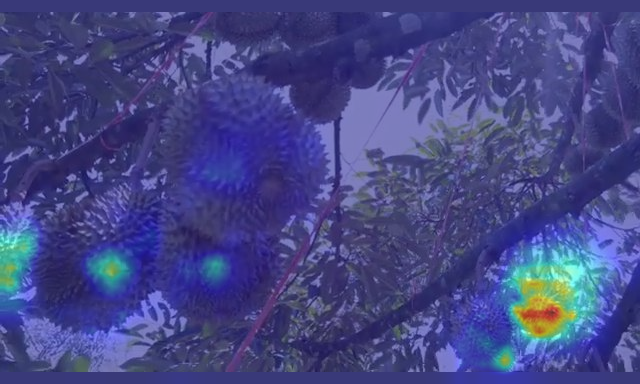
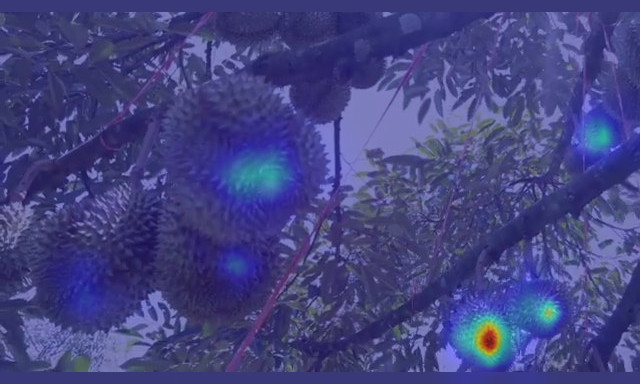
iou损失函数

diff --git a/ultralytics/utils/metrics.py b/ultralytics/utils/metrics.py
@@ -73,7 +73,8 @@ def box_iou(box1, box2, eps=1e-7):
     return inter / ((a2 - a1).prod(2) + (b2 - b1).prod(2) - inter + eps)
 
 
-def bbox_iou(box1, box2, xywh=True, GIoU=False, DIoU=False, CIoU=False, eps=1e-7):
+def bbox_iou(box1, box2, xywh=True, GIoU=False, DIoU=False, CIoU=False, SIoU=False, EIoU=False, WIoU=False, Focal=False,
+             alpha=1, gamma=0.5, scale=False, eps=1e-7):
     """
     Calculate Intersection over Union (IoU) of box1(1, 4) to box2(n, 4).
 
@@ -112,24 +113,105 @@ def bbox_iou(box1, box2, xywh=True, GIoU=False, DIoU=False, CIoU=False, eps=1e-7
     union = w1 * h1 + w2 * h2 - inter + eps
 
     # IoU
-    iou = inter / union
-    if CIoU or DIoU or GIoU:
+    # iou = inter / union
+    iou = torch.pow(inter / (union + eps), alpha)  # alpha iou
+    if CIoU or DIoU or GIoU or EIoU or SIoU or WIoU:
         cw = b1_x2.maximum(b2_x2) - b1_x1.minimum(b2_x1)  # convex (smallest enclosing box) width
         ch = b1_y2.maximum(b2_y2) - b1_y1.minimum(b2_y1)  # convex height
-        if CIoU or DIoU:  # Distance or Complete IoU https://arxiv.org/abs/1911.08287v1
-            c2 = cw.pow(2) + ch.pow(2) + eps  # convex diagonal squared
-            rho2 = (
-                (b2_x1 + b2_x2 - b1_x1 - b1_x2).pow(2) + (b2_y1 + b2_y2 - b1_y1 - b1_y2).pow(2)
-            ) / 4  # center dist**2
+        if CIoU or DIoU or EIoU or SIoU or WIoU:  # Distance or Complete IoU https://arxiv.org/abs/1911.08287v1
+            c2 = (cw ** 2 + ch ** 2) ** alpha + eps  # convex diagonal squared
+            rho2 = (((b2_x1 + b2_x2 - b1_x1 - b1_x2) ** 2 + (b2_y1 + b2_y2 - b1_y1 - b1_y2) ** 2) / 4) ** alpha  # center dist ** 2
             if CIoU:  # https://github.com/Zzh-tju/DIoU-SSD-pytorch/blob/master/utils/box/box_utils.py#L47
-                v = (4 / math.pi**2) * ((w2 / h2).atan() - (w1 / h1).atan()).pow(2)
+                v = (4 / math.pi ** 2) * (torch.atan(w2 / h2) - torch.atan(w1 / h1)).pow(2)
                 with torch.no_grad():
-                    alpha = v / (v - iou + (1 + eps))
-                return iou - (rho2 / c2 + v * alpha)  # CIoU
-            return iou - rho2 / c2  # DIoU
+                    alpha_ciou = v / (v - iou + (1 + eps))
+                if Focal:
+                    return iou - (rho2 / c2 + torch.pow(v * alpha_ciou + eps, alpha)), torch.pow(inter / (union + eps), gamma)  # Focal_CIoU
+                else:
+                    return iou - (rho2 / c2 + torch.pow(v * alpha_ciou + eps, alpha))  # CIoU
+            elif EIoU:
+                rho_w2 = ((b2_x2 - b2_x1) - (b1_x2 - b1_x1)) ** 2
+                rho_h2 = ((b2_y2 - b2_y1) - (b1_y2 - b1_y1)) ** 2
+                cw2 = torch.pow(cw ** 2 + eps, alpha)
+                ch2 = torch.pow(ch ** 2 + eps, alpha)
+                if Focal:
+                    return iou - (rho2 / c2 + rho_w2 / cw2 + rho_h2 / ch2), torch.pow(inter / (union + eps), gamma)  # Focal_EIou
+                else:
+                    return iou - (rho2 / c2 + rho_w2 / cw2 + rho_h2 / ch2)  # EIou
+            elif SIoU: # SIoU Loss https://arxiv.org/pdf/2205.12740.pdf
+                s_cw = (b2_x1 + b2_x2 - b1_x1 - b1_x2) * 0.5 + eps
+                s_ch = (b2_y1 + b2_y2 - b1_y1 - b1_y2) * 0.5 + eps
+                sigma = torch.pow(s_cw ** 2 + s_ch ** 2, 0.5)
+                sin_alpha_1 = torch.abs(s_cw) / sigma
+                sin_alpha_2 = torch.abs(s_ch) / sigma
+                threshold = pow(2, 0.5) / 2
+                sin_alpha = torch.where(sin_alpha_1 > threshold, sin_alpha_2, sin_alpha_1)
+                angle_cost = torch.cos(torch.arcsin(sin_alpha) * 2 - math.pi / 2)
+                rho_x = (s_cw / cw) ** 2
+                rho_y = (s_ch / ch) ** 2
+                gamma = angle_cost - 2
+                distance_cost = 2 - torch.exp(gamma * rho_x) - torch.exp(gamma * rho_y)
+                omiga_w = torch.abs(w1 - w2) / torch.max(w1, w2)
+                omiga_h = torch.abs(h1 - h2) / torch.max(h1, h2)
+                shape_cost = torch.pow(1 - torch.exp(-1 * omiga_w), 4) + torch.pow(1 - torch.exp(-1 * omiga_h), 4)
+                if Focal:
+                    return iou - torch.pow(0.5 * (distance_cost + shape_cost) + eps, alpha), torch.pow(inter / (union + eps), gamma)  # Focal_SIou
+                else:
+                    return iou - torch.pow(0.5 * (distance_cost + shape_cost) + eps, alpha)  # SIou
+            elif WIoU:
+                if Focal:
+                    raise RuntimeError("WIoU do not support Focal.")
+                elif scale:
+                    return getattr(WIoU_Scale, '_scaled_loss')(self), (1 - iou) * torch.exp((rho2 / c2)), iou  # WIoU https://arxiv.org/abs/2301.10051
+                else:
+                    return iou, torch.exp((rho2 / c2))  # WIoU v1
+            if Focal:
+                return iou - rho2 / c2, torch.pow(inter / (union + eps), gamma)  # Focal_DIoU
+            else:
+                return iou - rho2 / c2  # DIoU
         c_area = cw * ch + eps  # convex area
-        return iou - (c_area - union) / c_area  # GIoU https://arxiv.org/pdf/1902.09630.pdf
-    return iou  # IoU
+        if Focal:
+            return iou - torch.pow((c_area - union) / c_area + eps, alpha), torch.pow(inter / (union + eps), gamma)  # Focal_GIoU https://arxiv.org/pdf/1902.09630.pdf
+        else:
+            return iou - torch.pow((c_area - union) / c_area + eps, alpha)  # GIoU https://arxiv.org/pdf/1902.09630.pdf
+    if Focal:
+        return iou, torch.pow(inter / (union + eps), gamma)  # Focal_IoU
+    else:
+        return iou  # IoU
+
+
+class WIoU_Scale:
+    ''' monotonous: {
+            None: origin v1
+            True: monotonic FM v2
+            False: non-monotonic FM v3
+        }
+        momentum: The momentum of running mean'''
+
+    iou_mean = 1.
+    monotonous = False
+    _momentum = 1 - 0.5 ** (1 / 7000)
+    _is_train = True
+
+    def __init__(self, iou):
+        self.iou = iou
+        self._update(self)
+
+    @classmethod
+    def _update(cls, self):
+        if cls._is_train:
+            cls.iou_mean = (1 - cls._momentum) * cls.iou_mean + cls._momentum * self.iou.detach().mean().item()
+
+    @classmethod
+    def _scaled_loss(cls, self, gamma=1.9, delta=3):
+        if isinstance(self.monotonous, bool):
+            if self.monotonous:
+                return (self.iou.detach() / self.iou_mean).sqrt()
+            else:
+                beta = self.iou.detach() / self.iou_mean
+                alpha = delta * torch.pow(gamma, beta - delta)
+                return beta / alpha
+        return 1
 
 
 def mask_iou(mask1, mask2, eps=1e-7):

diff --git a/ultralytics/utils/loss.py b/ultralytics/utils/loss.py
@@ -73,8 +73,16 @@ class BboxLoss(nn.Module):
     def forward(self, pred_dist, pred_bboxes, anchor_points, target_bboxes, target_scores, target_scores_sum, fg_mask):
         """IoU loss."""
         weight = target_scores.sum(-1)[fg_mask].unsqueeze(-1)
-        iou = bbox_iou(pred_bboxes[fg_mask], target_bboxes[fg_mask], xywh=False, CIoU=True)
-        loss_iou = ((1.0 - iou) * weight).sum() / target_scores_sum
+        # iou = bbox_iou(pred_bboxes[fg_mask], target_bboxes[fg_mask], xywh=False, CIoU=True)
+        iou = bbox_iou(pred_bboxes[fg_mask], target_bboxes[fg_mask], xywh=False, WIoU=True)
+        # loss_iou = ((1.0 - iou) * weight).sum() / target_scores_sum
+        if type(iou) is tuple:
+            if len(iou) == 2:
+                loss_iou = ((1.0 - iou[0]) * iou[1].detach() * weight).sum() / target_scores_sum
+            else:
+                loss_iou = (iou[0] * iou[1] * weight).sum() / target_scores_sum
+        else:
+            loss_iou = ((1.0 - iou) * weight).sum() / target_scores_sum
 
         # DFL loss
         if self.use_dfl:

diff --git a/train_model.py b/train_model.py
@@ -113,12 +113,12 @@ if __name__ == '__main__':
     data_set = os.path.join(data_dir, 'data.yaml')
     # 通过检查
     if all(check_result):
-        # model_path = os.path.join(cwd, "models", "yolov8n.yaml")
+        model_path = os.path.join(cwd, "models", "yolov8n.yaml")
         # model_path = os.path.join(cwd, "models", "yolov8.C3RFEM.yaml")
         # model_path = os.path.join(cwd, "models", "yolov8.SEA.yaml")
         # model_path = os.path.join(cwd, "models", "yolov8.CBAM.yaml")
         # model_path = os.path.join(cwd, "models", "yolov8.p4.yaml")
-        model_path = os.path.join(cwd, "models", "yolov8m.gold.yaml")
+        # model_path = os.path.join(cwd, "models", "yolov8m.gold.yaml")
         # model_path = os.path.join(cwd, "models", "yolov8.shuffle.yaml")
         model, result = train_mode(model_path, data_set, 100)
         # 测试验证model

diff --git a/yolov8heatmap.py b/yolov8heatmap.py
@@ -233,7 +233,22 @@ def get_params():
     }
     return params
 
+def get_run_params():
+    params = {
+        'weight': 'runs/detect/train/weights/best.pt',  # 现在只需要指定权重即可,不需要指定cfg
+        'device': 'cuda:0',
+        'method': 'HiResCAM',  # GradCAMPlusPlus, GradCAM, XGradCAM, EigenCAM, HiResCAM, LayerCAM, RandomCAM, EigenGradCAM
+        'layer': [9, 12, 15, 18, 21],
+        'backward_type': 'class',  # class, box, all
+        'conf_threshold': 0.2,  # 0.2
+        'ratio': 0.02,  # 0.02-0.1
+        'show_box': False,
+        'renormalize': False    # 区域突显
+    }
+    return params
+
 
 if __name__ == '__main__':
-    heatmap = YoloV8Heatmap(**get_params())
+    # heatmap = YoloV8Heatmap(**get_params())
+    heatmap = YoloV8Heatmap(**get_run_params())
     heatmap('resource/B0104.jpg', 'results')

diff --git a/ultralytics/utils/tal.py b/ultralytics/utils/tal.py
@@ -122,7 +122,8 @@ class TaskAlignedAssigner(nn.Module):
 
     def iou_calculation(self, gt_bboxes, pd_bboxes):
         """IoU calculation for horizontal bounding boxes."""
-        return bbox_iou(gt_bboxes, pd_bboxes, xywh=False, CIoU=True).squeeze(-1).clamp_(0)
+        # return bbox_iou(gt_bboxes, pd_bboxes, xywh=False, CIoU=True).squeeze(-1).clamp_(0)
+        return bbox_iou(gt_bboxes, pd_bboxes, xywh=False, WIoU=True)[0].squeeze(-1).clamp_(0)
 
     def select_topk_candidates(self, metrics, largest=True, topk_mask=None):
         """
